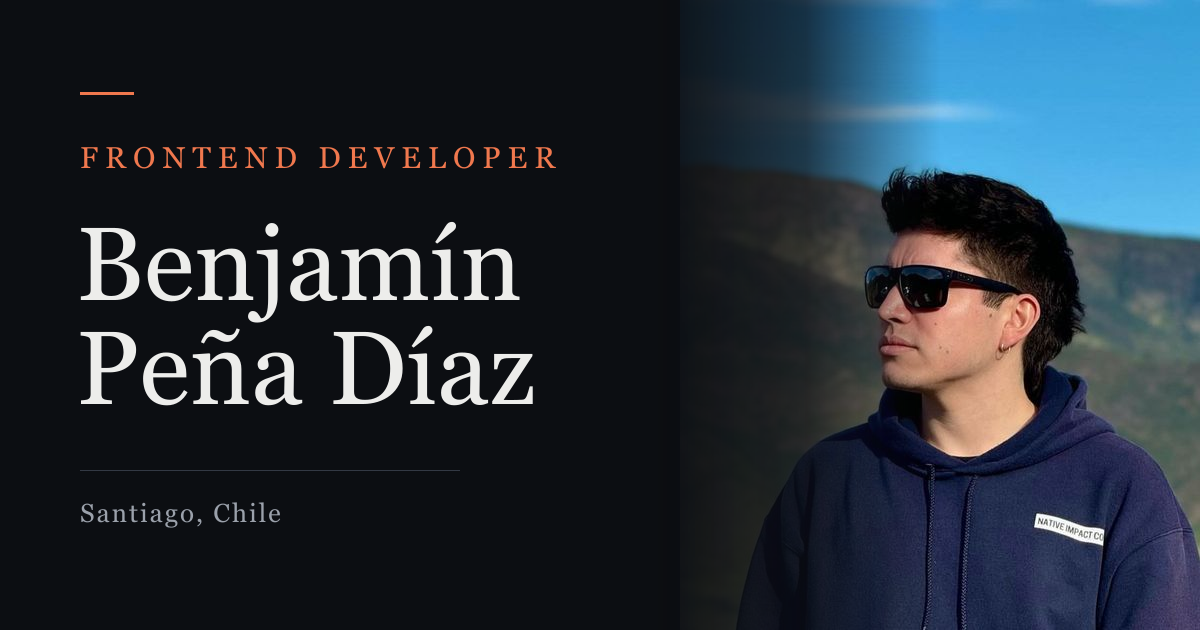
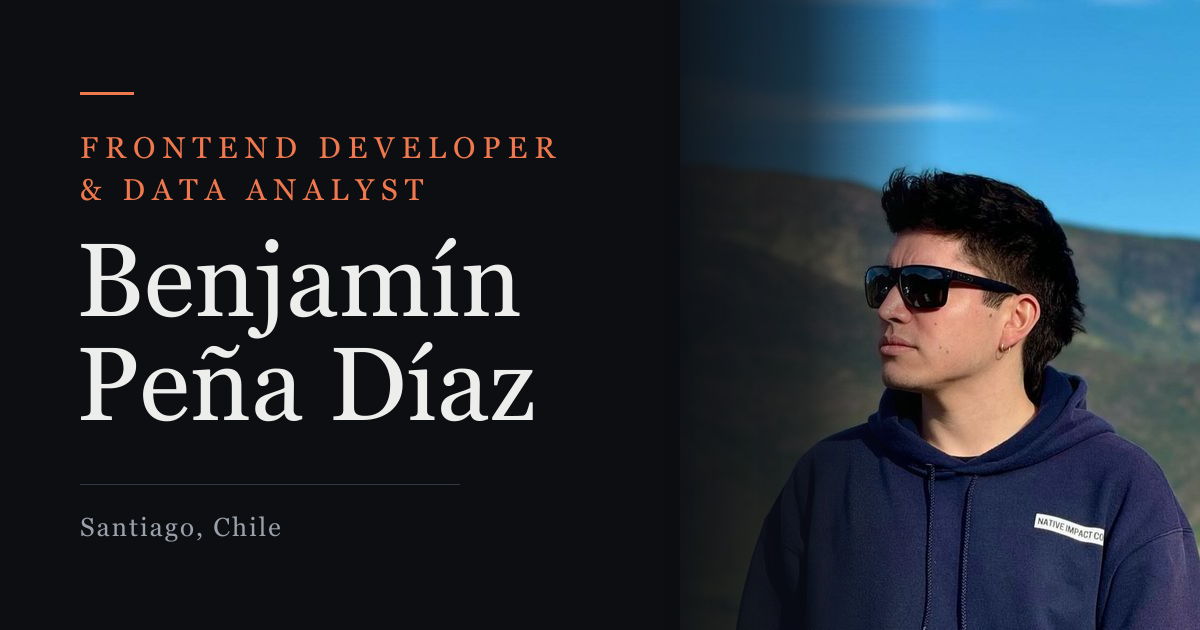
feat(perfil): desarrollador frontend y data analyst
Alinea el titular con el perfil de LinkedIn y deja claro que el frontend
es el foco, no el límite.

- Rol: "Desarrollador Frontend & Data Analyst", con las herramientas del
  lado de datos (Power Apps · Power BI · Python) en una segunda línea.
- Nuevo párrafo en "Sobre mí" sobre trabajar de los dos lados.
- Intro, título, descripción, palabras clave y tarjetas Open Graph al día.
- jobTitle del JSON-LD pasa a ser una lista de dos cargos, y se añade
  knowsAbout con las herramientas.
- generar-assets.mjs acepta --solo-og para no recodificar la foto cuando
  solo cambia el texto de las tarjetas.

De paso, arregla el respaldo de la monoespaciada: next/font lo generaba
desde local("Arial") con size-adjust 134.59%, casi un 30% más ancho por
carácter que JetBrains Mono. Las versales largas envolvían mientras
cargaba la fuente y se recolocaban después. CLS móvil 0.032 → 0.000.

diff --git a/src/i18n/diccionario.ts b/src/i18n/diccionario.ts
@@ -26,10 +26,12 @@ const diccionario = {
       codigo: "EN",
     },
     hero: {
-      rol: "Desarrollador Frontend",
+      rol: "Desarrollador Frontend & Data Analyst",
+      /** Segunda mitad del titular: las tres herramientas del lado de datos. */
+      herramientas: "Power Apps · Power BI · Python",
       disponible: "Disponible para proyectos freelance",
       intro:
-        "Construyo interfaces web y las llevo a producción. Trabajo con React, TypeScript y Tailwind, con foco en mobile first, componentes reutilizables y accesibilidad.",
+        "Construyo interfaces web y las llevo a producción con React, TypeScript y Tailwind. Vengo del análisis de datos, así que también me muevo en Power BI, Power Apps y Python cuando el proyecto lo pide.",
       verProyectos: "Ver proyectos",
       escribirme: "Copiar mi correo",
       altFoto:
@@ -39,9 +41,10 @@ const diccionario = {
       etiqueta: "Sobre mí",
       titulo: "Quién soy",
       parrafos: [
-        "Soy desarrollador frontend y estoy terminando Ingeniería Civil en Informática en la Universidad Andrés Bello. Egreso en noviembre de 2026 y hoy tomo proyectos freelance.",
+        "Soy desarrollador frontend y analista de datos. Estoy terminando Ingeniería Civil en Informática en la Universidad Andrés Bello, egreso en noviembre de 2026, y hoy tomo proyectos freelance.",
         "Pasé un año y medio continuo en CMPC. Empecé como analista de datos armando tableros en Power BI, y después hice mi práctica en Cybersecurity Operations TI/OT, donde desarrollé el portal interno del área: definí la arquitectura de la interfaz, los flujos de navegación y la jerarquía visual de vistas con mucha densidad de información. Está en producción y el equipo lo usa a diario.",
         "Entrego interfaces terminadas, no maquetas. Traduzco un diseño de Figma a una interfaz responsive y accesible, y defino la jerarquía visual cuando el diseño todavía no existe. Me importa el detalle: que cargue rápido, que se pueda recorrer con el teclado, que aguante en un teléfono de gama media.",
+        "El frontend es mi foco, pero no es mi único terreno. Si el proyecto necesita un tablero en Power BI, una app interna en Power Apps o un script en Python que ordene los datos antes de mostrarlos, también lo tomo. Haber trabajado de los dos lados me ayuda a construir interfaces que entienden de dónde vienen los datos que muestran.",
       ],
       idiomas: "Idiomas",
       certificaciones: "Certificaciones",
@@ -119,10 +122,11 @@ const diccionario = {
       codigo: "ES",
     },
     hero: {
-      rol: "Frontend Developer",
+      rol: "Frontend Developer & Data Analyst",
+      herramientas: "Power Apps · Power BI · Python",
       disponible: "Available for freelance work",
       intro:
-        "I build web interfaces and ship them to production. I work with React, TypeScript and Tailwind, focused on mobile first, reusable components and accessibility.",
+        "I build web interfaces and ship them to production with React, TypeScript and Tailwind. I come from data analysis, so I'm just as comfortable in Power BI, Power Apps and Python when a project calls for it.",
       verProyectos: "View projects",
       escribirme: "Copy my email",
       altFoto:
@@ -132,9 +136,10 @@ const diccionario = {
       etiqueta: "About",
       titulo: "Who I am",
       parrafos: [
-        "I'm a frontend developer, currently finishing a Computer Engineering degree at Universidad Andrés Bello in Santiago. I graduate in November 2026 and I'm taking on freelance work.",
+        "I'm a frontend developer and data analyst. I'm finishing a Computer Engineering degree at Universidad Andrés Bello in Santiago, graduating in November 2026, and I'm currently taking on freelance work.",
         "I spent a year and a half at CMPC. I started as a data analyst building Power BI dashboards, then did my internship in IT/OT Cybersecurity Operations, where I built the team's internal portal: I defined the interface architecture, the navigation flows and the visual hierarchy for very information-dense views. It's in production and the team uses it every day.",
         "I ship finished interfaces, not mockups. I turn a Figma design into a responsive, accessible interface — and define the visual hierarchy myself when the design doesn't exist yet. I care about the details: that it loads fast, that you can navigate it with a keyboard, that it holds up on a mid-range phone.",
+        "Frontend is my focus, but it isn't my only ground. If a project needs a Power BI dashboard, an internal Power Apps tool, or a Python script to sort the data before it's displayed, I'll take that on too. Having worked on both sides helps me build interfaces that understand where their data comes from.",
       ],
       idiomas: "Languages",
       certificaciones: "Certifications",

diff --git a/src/data/perfil.ts b/src/data/perfil.ts
@@ -91,17 +91,17 @@ export const seo: Record<"es" | "en", { titulo: string; descripcion: string }> &
   palabrasClave: Texto;
 } = {
   es: {
-    titulo: "Benjamín Peña — Desarrollador Frontend",
+    titulo: "Benjamín Peña — Desarrollador Frontend & Data Analyst",
     descripcion:
-      "Desarrollador frontend en Santiago de Chile. Construyo interfaces web con React, TypeScript y Tailwind, y las llevo a producción. Disponible para proyectos freelance.",
+      "Desarrollador frontend y analista de datos en Santiago de Chile. Interfaces con React, TypeScript y Tailwind; datos con Power BI, Power Apps y Python. Disponible freelance.",
   },
   en: {
-    titulo: "Benjamín Peña — Frontend Developer",
+    titulo: "Benjamín Peña — Frontend Developer & Data Analyst",
     descripcion:
-      "Frontend developer based in Santiago, Chile. I build web interfaces with React, TypeScript and Tailwind, and ship them to production. Available for freelance work.",
+      "Frontend developer and data analyst in Santiago, Chile. Interfaces with React, TypeScript and Tailwind; data with Power BI, Power Apps and Python. Available freelance.",
   },
   palabrasClave: {
-    es: "desarrollador frontend, React, TypeScript, Tailwind, Next.js, Power Pages, freelance, Santiago, Chile",
-    en: "frontend developer, React, TypeScript, Tailwind, Next.js, Power Pages, freelance, Santiago, Chile",
+    es: "desarrollador frontend, analista de datos, React, TypeScript, Tailwind, Next.js, Power Apps, Power BI, Power Pages, Python, freelance, Santiago, Chile",
+    en: "frontend developer, data analyst, React, TypeScript, Tailwind, Next.js, Power Apps, Power BI, Power Pages, Python, freelance, Santiago, Chile",
   },
 };

diff --git a/src/lib/fuentes.ts b/src/lib/fuentes.ts
@@ -26,11 +26,33 @@ export const fuenteSans = Inter_Tight({
   variable: "--fuente-sans",
 });
 
+/**
+ * La mono es el único caso donde el respaldo automático de next/font hace
+ * daño. Lo genera a partir de `local("Arial")` con `size-adjust: 134.59%`:
+ * ajusta las métricas verticales, pero Arial es proporcional y estirarla un
+ * 35 % deja cada carácter casi un 30 % más ancho que JetBrains Mono. Las
+ * líneas largas de versales del hero envolvían con el respaldo y se
+ * recolocaban al llegar la tipografía real, que es de donde salía el CLS
+ * en móvil.
+ *
+ * Con `adjustFontFallback: false` se cae a monoespaciadas de verdad, cuyo
+ * avance (~0.6em) es prácticamente el de JetBrains Mono. Se pierde el ajuste
+ * vertical automático, pero aquí no hace falta: todo lo que usa la mono
+ * declara su propio line-height en globals.css.
+ */
 export const fuenteMono = JetBrains_Mono({
   subsets: ["latin"],
   weight: ["400"],
   display: "swap",
   variable: "--fuente-mono",
+  adjustFontFallback: false,
+  fallback: [
+    "ui-monospace",
+    "SFMono-Regular",
+    "Menlo",
+    "Consolas",
+    "monospace",
+  ],
 });
 
 export const clasesFuentes = `${fuenteDisplay.variable} ${fuenteSans.variable} ${fuenteMono.variable}`;

diff --git a/src/components/sections/Hero.tsx b/src/components/sections/Hero.tsx
@@ -39,7 +39,22 @@ export function Hero({ t }: Props) {
               Peña Díaz
             </h1>
 
-            <p className="etiqueta mt-6 text-texto">{t.hero.rol}</p>
+            {/* Titular de rol en dos mitades, como en LinkedIn: quién soy y
+                con qué trabajo. Van apiladas siempre: en fila no caben en esta
+                columna, que ocupa media pantalla incluso en escritorio.
+
+                El tracking baja de 0.14em a 0.09em solo aquí. Son las dos
+                líneas de versales más largas de la página y con el valor por
+                defecto quedaban a seis píxeles del borde en móvil: muy justo,
+                porque el respaldo monoespaciado que toque el sistema no mide
+                exactamente igual. Con 0.09em sobran casi treinta, y de paso
+                las versales largas piden menos tracking que las cortas. */}
+            <p className="etiqueta mt-6 tracking-[0.09em] text-texto">
+              <span className="block">{t.hero.rol}</span>
+              <span className="mt-1.5 block text-tenue">
+                {t.hero.herramientas}
+              </span>
+            </p>
 
             <p className="mt-6 max-w-medida text-guia text-atenuado">
               {t.hero.intro}

diff --git a/src/components/Pagina.tsx b/src/components/Pagina.tsx
@@ -28,8 +28,24 @@ export function Pagina({ idioma }: Props) {
     "@context": "https://schema.org",
     "@type": "Person",
     name: perfil.nombre,
-    jobTitle: t.hero.rol,
+    // schema.org admite varios cargos. Se parte el titular en sus dos mitades
+    // en vez de declarar una sola cadena con un "&" dentro, que ningún
+    // buscador sabe interpretar como dos oficios distintos.
+    jobTitle: t.hero.rol.split("&").map((parte) => parte.trim()),
     description: t.hero.intro,
+    knowsAbout: [
+      "React",
+      "TypeScript",
+      "JavaScript",
+      "Tailwind CSS",
+      "Next.js",
+      "Power BI",
+      "Power Apps",
+      "Power Pages",
+      "Power Query",
+      "Python",
+      "SQL",
+    ],
     url: SITIO_URL,
     image: `${SITIO_URL}/benjamin-pena.jpg`,
     email: `mailto:${perfil.email}`,

diff --git a/README.md b/README.md
@@ -274,6 +274,7 @@ El componente tiene tres redes de seguridad para que una sección **nunca** qued
 Qué movió la aguja, medido y no supuesto:
 
 - **CLS 0.168 → 0.019.** La fila de CTAs del hero medía 96 px con la fuente de respaldo (envuelta en dos líneas) y colapsaba a 43 px al cargar la monoespaciada, arrastrando todo lo de abajo. Se apilan a ancho completo en móvil: altura determinista.
+- **CLS 0.032 → 0.000 en móvil**, cambiando el respaldo de la monoespaciada. `next/font` lo genera solo, y para JetBrains Mono eligió `local("Arial")` con `size-adjust: 134.59%`: ajusta las métricas verticales, pero Arial es proporcional y estirarla un 35 % deja cada carácter casi un 30 % más ancho que la fuente real. Las líneas largas de versales del hero envolvían con el respaldo y se recolocaban al llegar la real. Con `adjustFontFallback: false` y una lista de monoespaciadas de verdad (`ui-monospace`, `Consolas`, `Menlo`), el avance coincide y los bloques miden igual con una fuente y con la otra. Se pierde el ajuste vertical automático, pero todo lo que usa la mono declara su propio `line-height`.
 - **Fuentes 202 → 79 kB.** Fraunces descargaba los ejes `SOFT`, `WONK` y `opsz` sin que ninguna regla los usara, y se pedían pesos 500 que solo hacían falta en los titulares.
 - **Móvil 81 → 96** en el score de rendimiento.
 - **Accesibilidad 96 → 100 estable**, quitando la opacidad del reveal (ver arriba).
